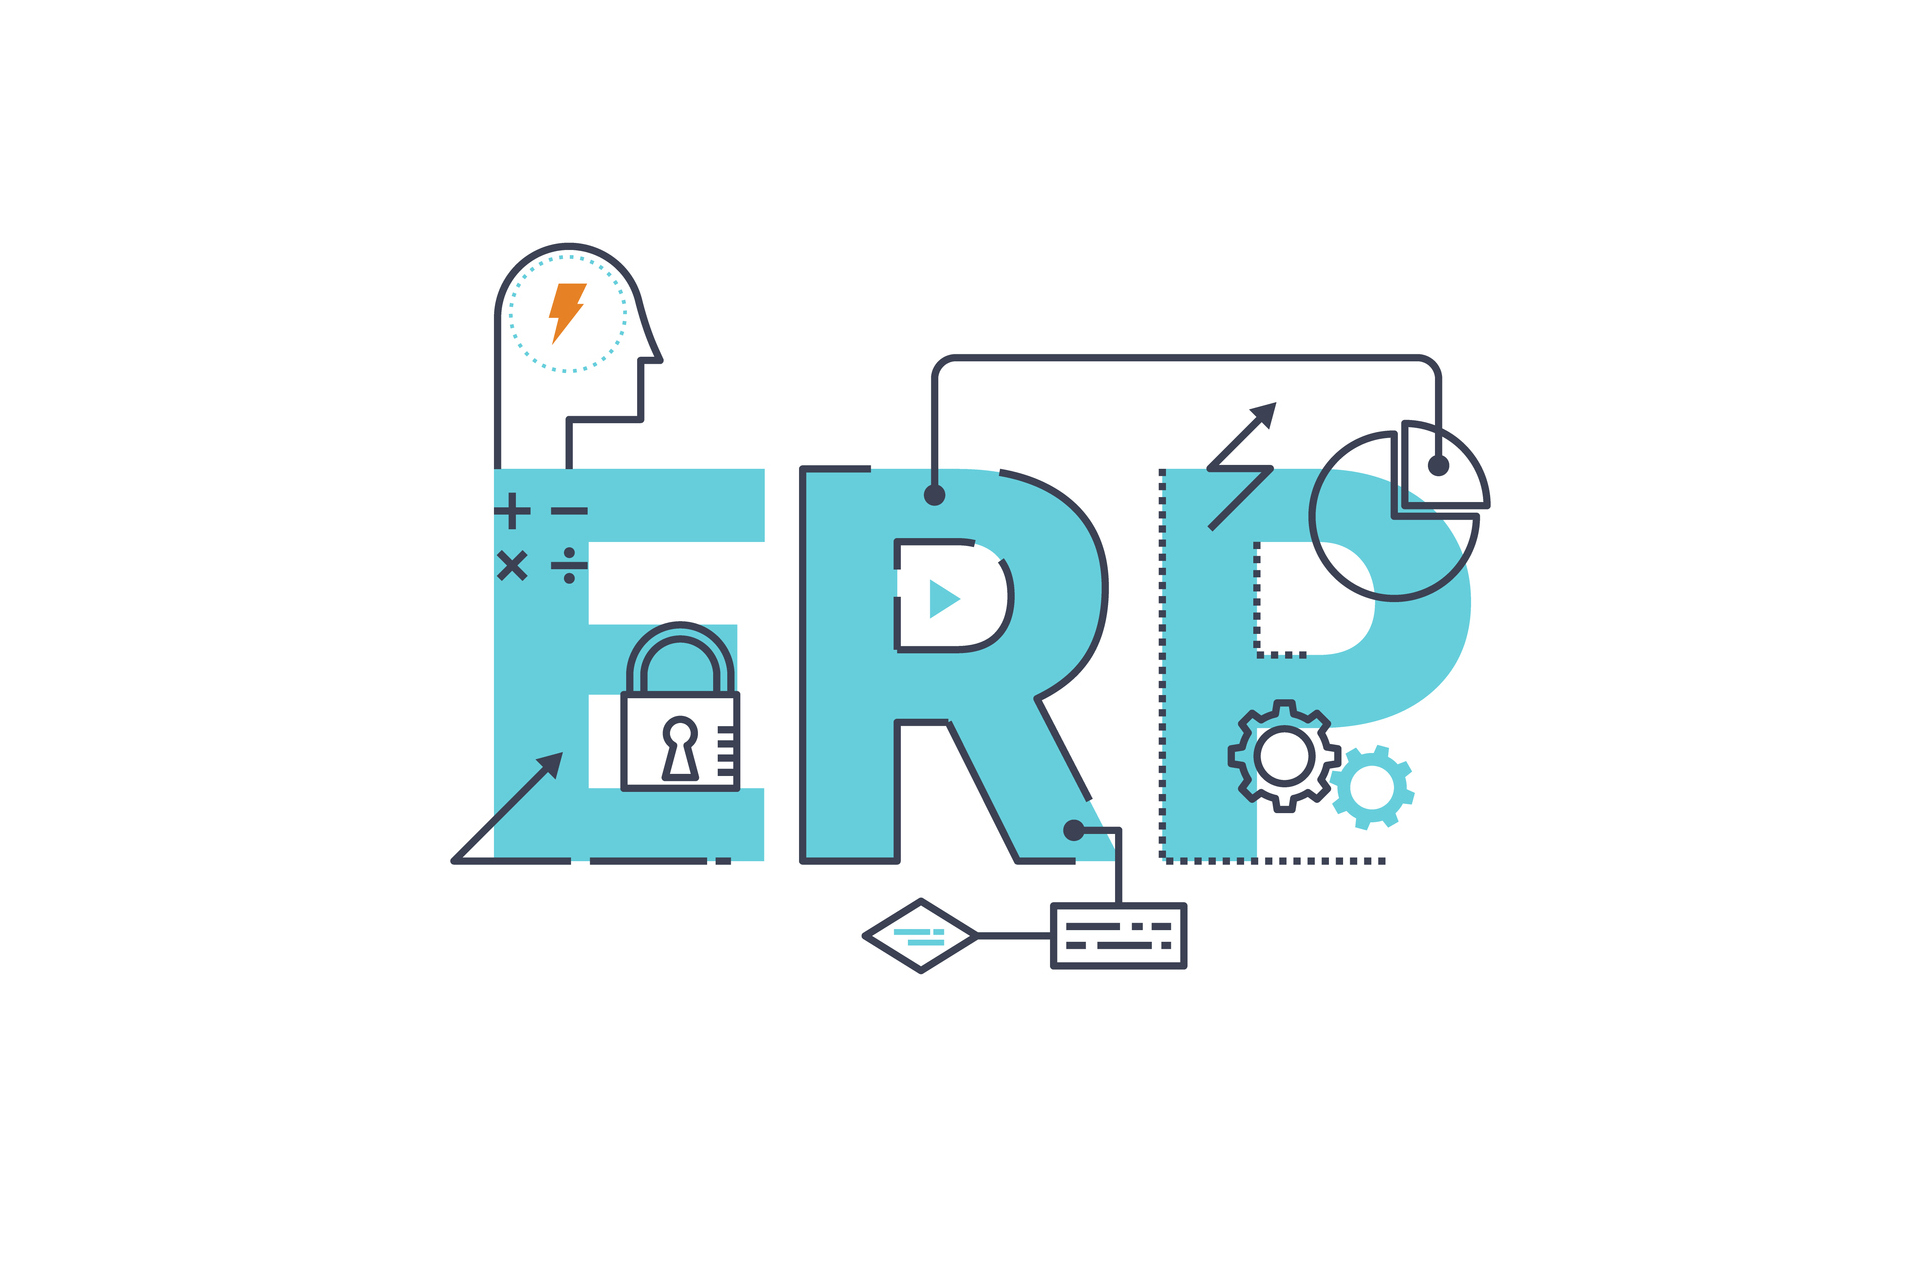
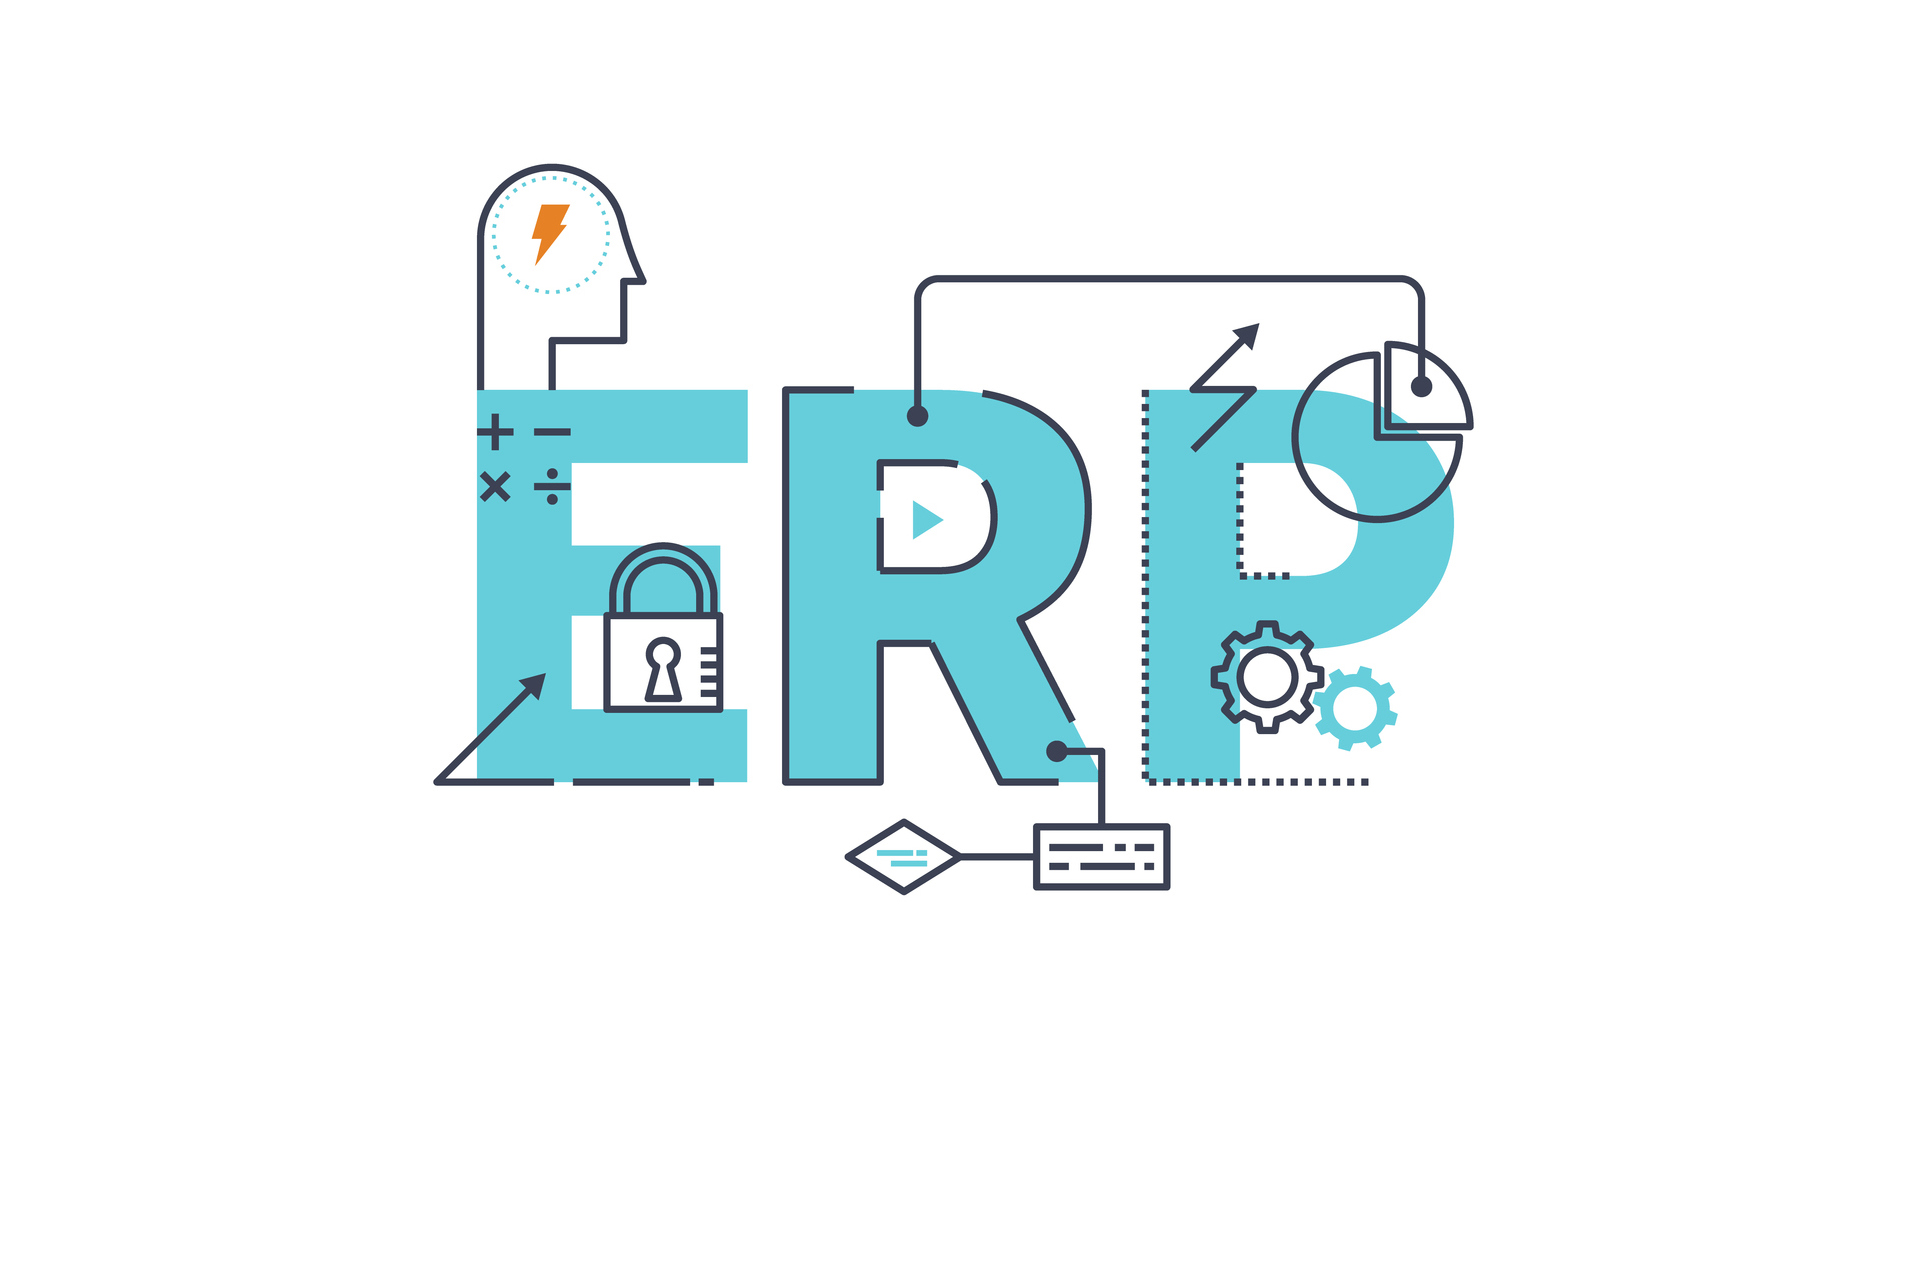
2.0

Changed region(s): [[0.2188, 0.122, 0.7812, 0.7623]]

diff --git a/index.html b/index.html
@@ -75,7 +75,7 @@
     <div class="container d-flex align-items-center">
 
       <div id="logo" class="me-auto">
-        <a href="index.html"><img src="assets/img/logo-nav.png" alt=""></a>
+        <a href="index.html"><img src="assets/img/erp.png" alt=""></a>
         <!-- Uncomment below if you prefer to use a text image -->
         <!--<h1><a href="#hero">Bell</a></h1>-->
       </div>
@@ -83,37 +83,16 @@
       <nav id="navbar" class="navbar order-last order-lg-0">
         <ul>
           <li><a class="nav-link scrollto active" href="#hero">Home</a></li>
-          <li><a class="nav-link scrollto" href="#about">About</a></li>
+          <li><a class="nav-link scrollto" href="#about">Acerca del Proyecto</a></li>
           <li><a class="nav-link scrollto" href="#features">Features</a></li>
           <li><a class="nav-link scrollto " href="#portfolio">Portfolio</a></li>
-          <li><a class="nav-link scrollto" href="#team">Team</a></li>
-          <li class="dropdown"><a href="#"><span>Drop Down</span> <i class="bi bi-chevron-down"></i></a>
-            <ul>
-              <li><a href="#">Drop Down 1</a></li>
-              <li class="dropdown"><a href="#"><span>Deep Drop Down</span> <i class="bi bi-chevron-right"></i></a>
-                <ul>
-                  <li><a href="#">Deep Drop Down 1</a></li>
-                  <li><a href="#">Deep Drop Down 2</a></li>
-                  <li><a href="#">Deep Drop Down 3</a></li>
-                  <li><a href="#">Deep Drop Down 4</a></li>
-                  <li><a href="#">Deep Drop Down 5</a></li>
-                </ul>
-              </li>
-              <li><a href="#">Drop Down 2</a></li>
-              <li><a href="#">Drop Down 3</a></li>
-              <li><a href="#">Drop Down 4</a></li>
-            </ul>
-          </li>
-          <li><a class="nav-link scrollto" href="#contact">Contact</a></li>
+          <li><a class="nav-link scrollto" href="#team">Equipo</a></li>
         </ul>
         <i class="bi bi-list mobile-nav-toggle"></i>
       </nav><!-- .navbar -->
 
       <div class="header-social-links d-flex align-items-center">
-        <a href="#" class="twitter"><i class="bi bi-twitter"></i></a>
-        <a href="#" class="facebook"><i class="bi bi-facebook"></i></a>
-        <a href="#" class="instagram"><i class="bi bi-instagram"></i></a>
-        <a href="#" class="linkedin"><i class="bi bi-linkedin"></i></i></a>
+        <a href="#" class="youtube"><i class="bi bi-youtube"></i></a>
       </div>
     </div>
   </header><!-- End Header -->
@@ -125,40 +104,35 @@
 
       <div class="container text-center">
         <h2>
-          About Bell Template
+          Acerca del proyecto
         </h2>
 
         <p>
-          Voluptua scripserit per ad, laudem viderer sit ex. Ex alia corrumpit voluptatibus usu, sed unum convenire id. Ut cum nisl moderatius, per nihil dicant commodo an. Eum tacimates erroribus ad. Atqui feugiat euripidis ea pri, sed veniam tacimates ex. Menandri
-          temporibus an duo.
+          ERPNext es un software de planificación de recursos empresariales integrado gratuito y de código abierto desarrollado por Frappé Technologies Pvt. Ltd. y se basa en el sistema de base de datos MariaDB
         </p>
 
         <div class="row stats-row">
           <div class="stats-col text-center col-md-3 col-sm-6">
             <div class="circle">
-              <span data-purecounter-start="0" data-purecounter-end="232" data-purecounter-duration="1" class="purecounter stats-no"></span>
-              Satisfied Customers
+              Reportes precisos y detalladados
             </div>
           </div>
 
           <div class="stats-col text-center col-md-3 col-sm-6">
             <div class="circle">
-              <span data-purecounter-start="0" data-purecounter-end="79" data-purecounter-duration="1" class="purecounter stats-no"></span>
-              Released Projects
+              Trabajo remoto
             </div>
           </div>
 
           <div class="stats-col text-center col-md-3 col-sm-6">
             <div class="circle">
-              <span data-purecounter-start="0" data-purecounter-end="1463" data-purecounter-duration="1" class="purecounter stats-no"></span>
-              Hours Of Support
+              Alta productividad
             </div>
           </div>
 
           <div class="stats-col text-center col-md-3 col-sm-6">
             <div class="circle">
-              <span data-purecounter-start="0" data-purecounter-end="68" data-purecounter-duration="1" class="purecounter stats-no"></span>
-              Hard Workers
+              Todo tiene respaldo
             </div>
           </div>
         </div>
@@ -172,7 +146,7 @@
       <p>
         This is the most powerful theme with thousands of options that you have never seen before.
       </p>
-      <img alt="Bell - A perfect theme" class="gadgets-img hidden-md-down" src="assets/img/gadgets.png">
+      <img alt="Bell - A perfect theme" class="gadgets-img hidden-md-down" src="assets/img/gadgets.png" height="90%">
     </section><!-- End Welcome Section -->
 
     <!-- ======= Features Section ======= -->
@@ -498,7 +472,7 @@
     <section class="team" id="team">
       <div class="container">
         <h2 class="text-center">
-          Meet our team
+          Equipo
         </h2>
 
         <div class="row">
@@ -587,6 +561,31 @@
                   </h4>
 
                   <nav class="social-nav">
+                    <a href="#"></a>
+                    <a href="#"><i class="bi bi-youtube"></i></a> <a href="#"><i class="bi bi-facebook"></i></a> <a href="#"><i class="bi bi-twitter"></i></a> <a href="#"><i class="bi bi-envelope-fill"></i></a>
+                  </nav>
+
+                  <p>
+                    Lorem ipsum dolor sit amet, eu sed suas eruditi honestatis.
+                  </p>
+                </div>
+              </a>
+            </div>
+          </div>
+
+          <div class="col-sm-3 col-xs-6">
+            <div class="card card-block">
+              <a href="#"><img alt="" class="team-img" src="assets/img/team-4.jpg">
+                <div class="card-title-wrap">
+                  <span class="card-title">Sergio Fez</span> <span class="card-text">Art Director</span>
+                </div>
+
+                <div class="team-over">
+                  <h4 class="hidden-md-down">
+                    Connect with me
+                  </h4>
+
+                  <nav class="social-nav">
                     <a href="#"><i class="bi bi-twitter"></i></a> <a href="#"><i class="bi bi-facebook"></i></a> <a href="#"><i class="bi bi-linkedin"></i></a> <a href="#"><i class="bi bi-envelope-fill"></i></a>
                   </nav>
 
@@ -601,64 +600,7 @@
       </div>
     </section><!-- End Team Section -->
 
-    <!-- ======= Contact Section ======= -->
-    <section id="contact">
-      <div class="container">
-        <div class="row">
-          <div class="col-md-12 text-center">
-            <h2 class="section-title">Contact Us</h2>
-          </div>
-        </div>
-
-        <div class="row justify-content-center">
-          <div class="col-lg-3 col-md-4">
-            <div class="info">
-              <div>
-                <i class="bi bi-geo-alt"></i>
-                <p>A108 Adam Street<br>New York, NY 535022</p>
-              </div>
-
-              <div>
-                <i class="bi bi-envelope"></i>
-                <p>info@example.com</p>
-              </div>
-
-              <div>
-                <i class="bi bi-phone"></i>
-                <p>+1 5589 55488 55s</p>
-              </div>
-
-            </div>
-          </div>
-
-          <div class="col-lg-5 col-md-8">
-            <div class="form">
-              <form action="forms/contact.php" method="post" role="form" class="php-email-form">
-                <div class="form-group">
-                  <input type="text" name="name" class="form-control" id="name" placeholder="Your Name" required>
-                </div>
-                <div class="form-group mt-3">
-                  <input type="email" class="form-control" name="email" id="email" placeholder="Your Email" required>
-                </div>
-                <div class="form-group mt-3">
-                  <input type="text" class="form-control" name="subject" id="subject" placeholder="Subject" required>
-                </div>
-                <div class="form-group mt-3">
-                  <textarea class="form-control" name="message" rows="5" placeholder="Message" required></textarea>
-                </div>
-                <div class="my-3">
-                  <div class="loading">Loading</div>
-                  <div class="error-message"></div>
-                  <div class="sent-message">Your message has been sent. Thank you!</div>
-                </div>
-                <div class="text-center"><button type="submit">Send Message</button></div>
-              </form>
-            </div>
-          </div>
-
-        </div>
-      </div>
-    </section><!-- End Contact Section -->
+    
 
   </main><!-- End #main -->
 
@@ -670,7 +612,6 @@
 
           <div class="col-lg-6 col-xs-12 text-lg-start text-center">
             <p class="copyright-text">
-              &copy; Copyright <strong>Bell</strong>. All Rights Reserved
             </p>
             <div class="credits">
               <!--
@@ -679,7 +620,7 @@
               Licensing information: https://bootstrapmade.com/license/
               Purchase the pro version with working PHP/AJAX contact form: https://bootstrapmade.com/buy/?theme=Bell
             -->
-              Designed by <a href="https://bootstrapmade.com/">BootstrapMade</a>
+              <p>No. de Propuesta: <b>PI-20212-7</b> </p>
             </div>
           </div>
 
@@ -690,7 +631,7 @@
               </li>
 
               <li class="list-inline-item">
-                <a href="#about">About Us</a>
+                <a href="#about">Acerca del Proyecto</a>
               </li>
 
               <li class="list-inline-item">
@@ -702,11 +643,7 @@
               </li>
 
               <li class="list-inline-item">
-                <a href="#team">Team</a>
-              </li>
-
-              <li class="list-inline-item">
-                <a href="#contact">Contact</a>
+                <a href="#team">Equipo</a>
               </li>
             </ul>
           </div>

diff --git a/inner-page.html b/inner-page.html
@@ -53,7 +53,7 @@
     <div class="container d-flex align-items-center">
 
       <div id="logo" class="me-auto">
-        <a href="index.html"><img src="assets/img/logo-nav.png" alt=""></a>
+        <a href="index.html"><img src="assets/img/erp.png" alt=""></a>
         <!-- Uncomment below if you prefer to use a text image -->
         <!--<h1><a href="#hero">Bell</a></h1>-->
       </div>
